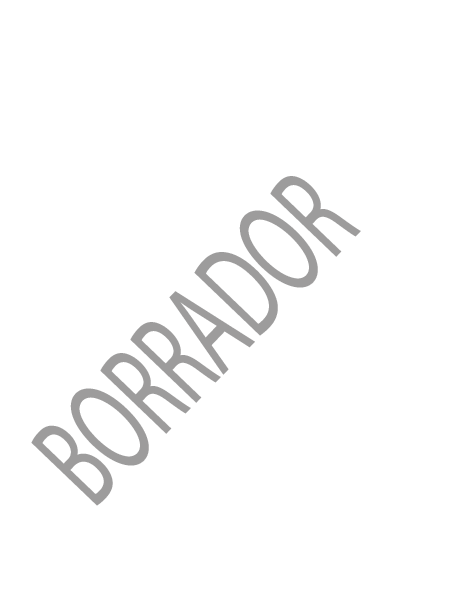
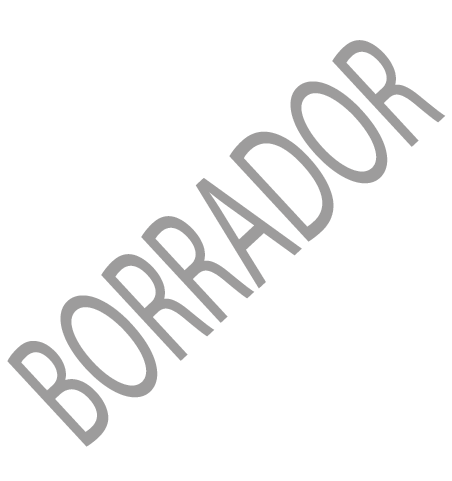
commit de imagen y reporte con fondo Borrador

Changed region(s): [[0.0, 0.0624, 0.9912, 0.9356]]

diff --git a/control/ACTCorrespondencia.php b/control/ACTCorrespondencia.php
@@ -612,8 +612,7 @@ class ACTCorrespondencia extends ACTbase
 			          $fecha_deriv  = '       ';
 		              }else{
 		      	
-			          //$fecha_deriv = '  '.strftime("%d/%m/%Y %H:%m:%s", strtotime($ruta['fecha_deriv']));
-					  $fecha_deriv = '  '.strftime("%d/%m/%Y %H:%M:%S", strtotime($ruta['fecha_deriv']));	
+			          $fecha_deriv = '  '.strftime("%d/%m/%Y %H:%m", strtotime($ruta['fecha_deriv']));	
 					 // $fecha_deriv = $ruta['fecha_deriv'];	
 			         }
         	         
@@ -622,7 +621,7 @@ class ACTCorrespondencia extends ACTbase
 			          $fecha_recepcion2  = '       ';
 		              }else{
 		      	
-			         $fecha_recepcion2 = $vacio.'  '.strftime("%d/%m/%Y %H:%M:%S", strtotime($ruta['fecha_recepcion']));
+			         $fecha_recepcion2 = $vacio.'  '.strftime("%d/%m/%Y %H:%m", strtotime($ruta['fecha_recepcion']));
 					    // $fecha_recepcion2 = $ruta['fecha_recepcion'];	
 			         }
         	        
@@ -636,7 +635,7 @@ class ACTCorrespondencia extends ACTbase
 							  <tr>
 								<td class="tg-yw4l" colspan="2">(' . $ruta['cuenta'] . ') ' . $ruta['desc_person_fk'] . '<br /><b style="font-size:8pt;">' . $ruta["desc_cargo_fk"] . '</b></td>
 								<td class="tg-yw4l" colspan="2">' . $ruta['desc_person'] . '<br /><b style="font-size:8pt;">' . $ruta["desc_cargo"] . '</b></td>
-								<td class="tg-yw4l" colspan="1">' . $fecha_deriv. '</td>
+								<td class="tg-yw4l" colspan="1">' . $fecha_deriv . '</td>
 								
 								<td class="tg-yw4l" colspan="1" >' . $fecha_recepcion2 . '</td>
 								<td class="tg-yw4l" colspan="1"> </td>
@@ -772,9 +771,27 @@ window.onload=function(){self.print();}
 				<meta charset="UTF-8">
 				<title></title>
 			</head>
-			<body background="imagenes/fondo_borrador.png" bgcolor="FFCECB">
+			<body style="position:absolute">
+<!-- agrega marca de agua pero falta centrear en la hoja>
+			<div style="position:absolute">
+  <p style="font-size:120px">Background</p>
+	</div>
+-->
+	<style type="text/css">
+	
+	.watermarked {
+  position: relative;
+}
 
-			<style type="text/css">
+
+    .watermark
+    {
+        position: absolute;
+        top: 60px;
+        left: 80px;
+        opacity: 0.2;
+    }
+	
 							.tg  {border-collapse:collapse;border-spacing:0; border: 0;}
 							.tg td{font-family:Arial, sans-serif;font-size:12px;padding:5px 5px;border-style:solid;border-width:0px;overflow:hidden;word-break:normal;}
 							.tg th{font-family:Arial, sans-serif;font-size:12px;font-weight:normal;padding:5px 5px;border-style:solid;border-width:1px;overflow:hidden;word-break:normal;}
@@ -782,7 +799,20 @@ window.onload=function(){self.print();}
 							.tg .tg-yw4l{vertical-align:top; border: 0}
 							.tg .tg-9hbo{font-weight:bold;vertical-align:top}
 							</style>
-							<CENTER><div><B>HOJA DE RECEPCION DE CORRESPONDENCIA BORRADOR </B></div></CENTER>
+							
+<div style="position: relative; left: 0; top: 0;">
+        
+        <img src="../../../sis_correspondencia/imagenes/fondo_borrador.png" class="watermark"/>
+    </div>
+							<CENTER>
+							  <spam align = "right">  
+							      <div align="right" style="color:#F00"><!--<img src="../../../sis_correspondencia/imagenes/fondo_borrador.png">-->BORRADOR </div>
+							    </spam > 
+                              <div > 
+							    <p>  <spam > <B>HOJA DE RECEPCION DE CORRESPONDENCIA </B> </spam > 
+						        </p>
+							  </div>
+							</CENTER>
 							<hr />
 							<table class="tg"  border="0">
 							  <tr>

diff --git a/vista/correspondencia/DerivacionCorrespondenciaExterna.php b/vista/correspondencia/DerivacionCorrespondenciaExterna.php
@@ -69,11 +69,11 @@ Phx.vista.DerivacionCorrespondenciaExterna = {
 
 	//	this.bloquearOrdenamientoGrid();
          this.addButton('ImpBorrador', {
-				text: 'Imprimir Borrador',
+				text: 'Vista Previa',
 				iconCls: 'bprintcheck',
 				disabled: false,
 				handler: this.BImpBorrador,
-				tooltip: '<b>Imprimir Borrador </b><br/>imprimir borrador correspondencia'
+				tooltip: '<b>Vista Previa </b><br/> Vista previa de la correspondencia'
 
 			});
             
